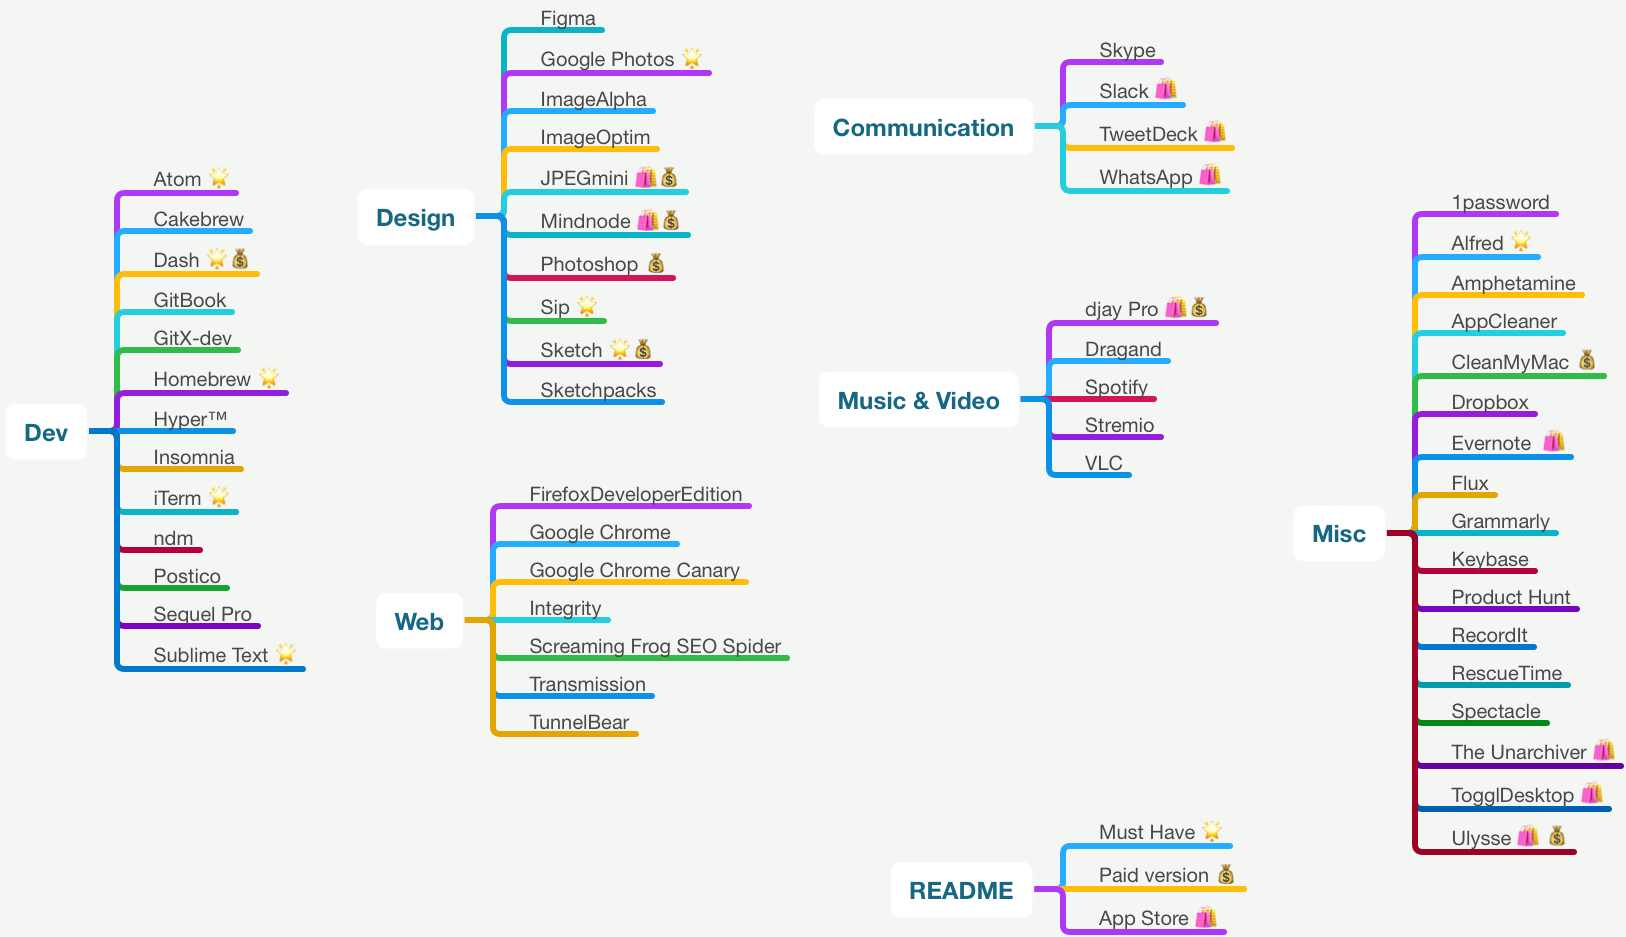
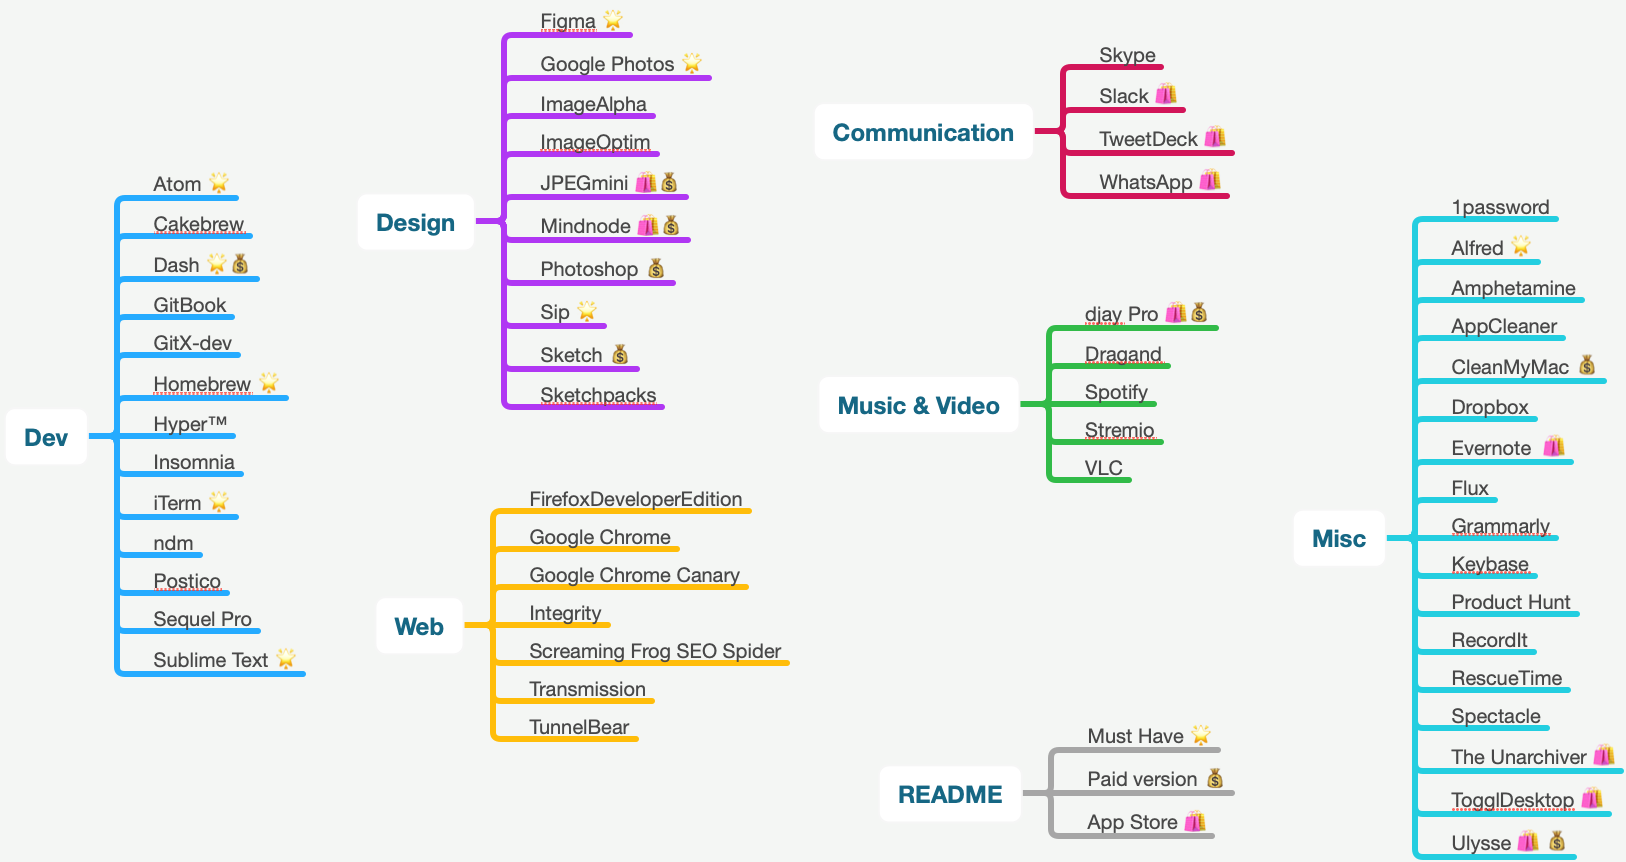
:crystal_ball:

diff --git a/README.md b/README.md
@@ -30,7 +30,7 @@ Here is the list of all the apps I use to be efficient as a __front-end develope
 
 ## Design
 
-- __[Figma](https://www.figma.com/downloads/)__ – Design, prototype, and gather feedback all in one place with Figma.
+- __[Figma 🌟](https://www.figma.com/downloads/)__ – Design, prototype, and gather feedback all in one place with Figma.
 - __[Google Photos](https://photos.google.com/apps)__ – Free, unlimited storage for photos up to 16 megapixels and videos up to 1080p resolution.
 - __[ImageAlpha](https://pngmini.com/)__ – Reduces file sizes of 24-bit `PNG`.
 - __[ImageOptim](https://imageoptim.com/)__ – Excellent tool for publishing images on the web.
